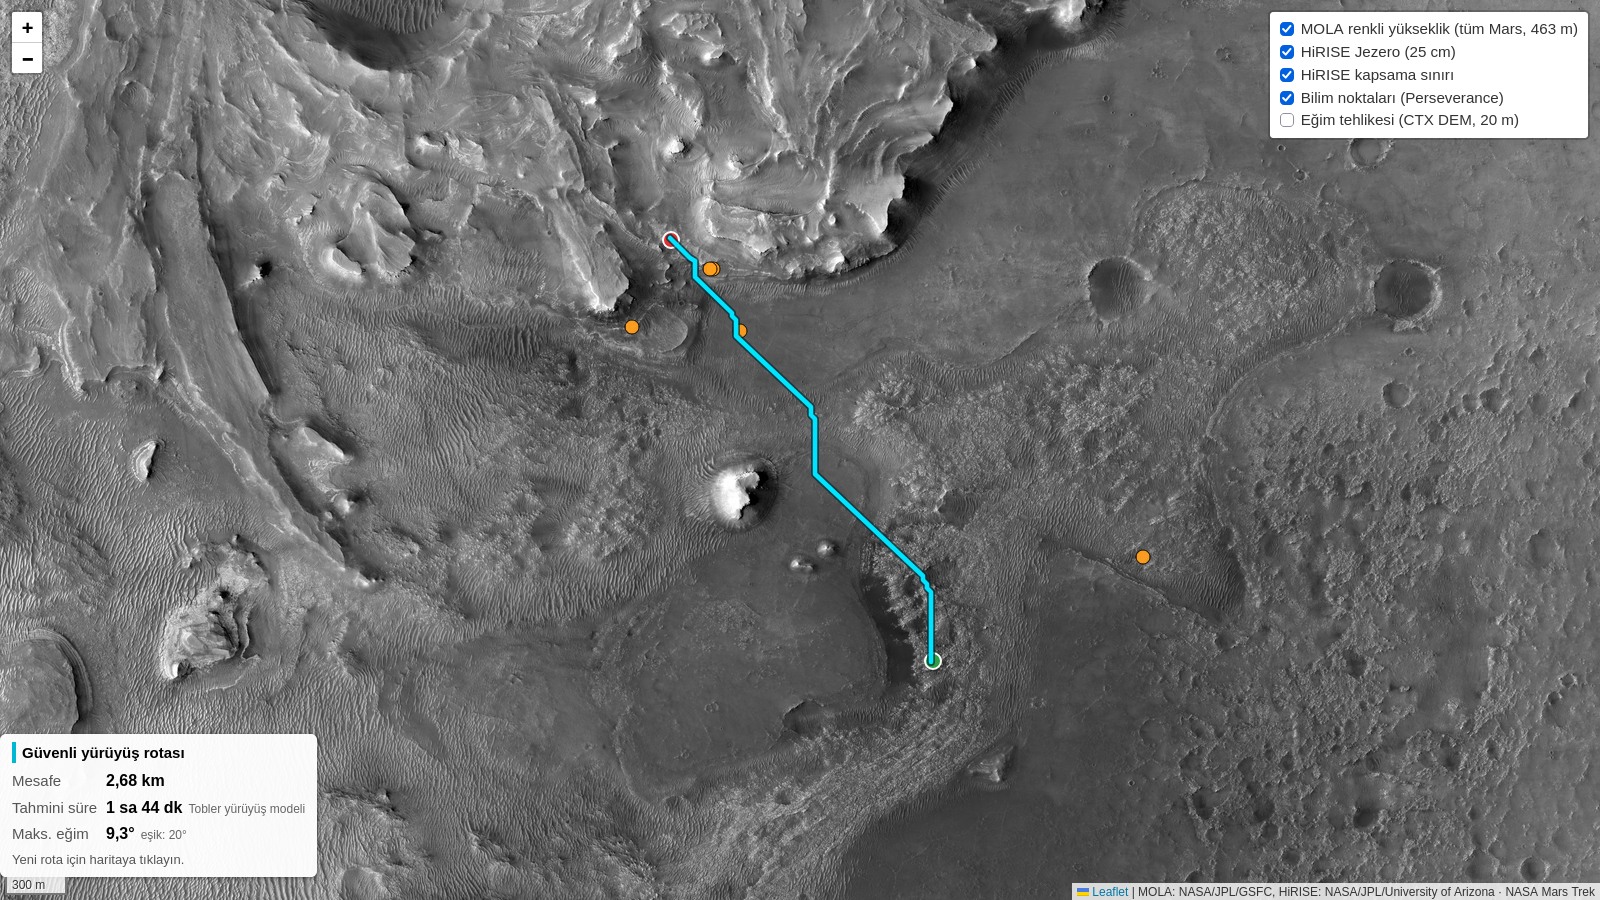
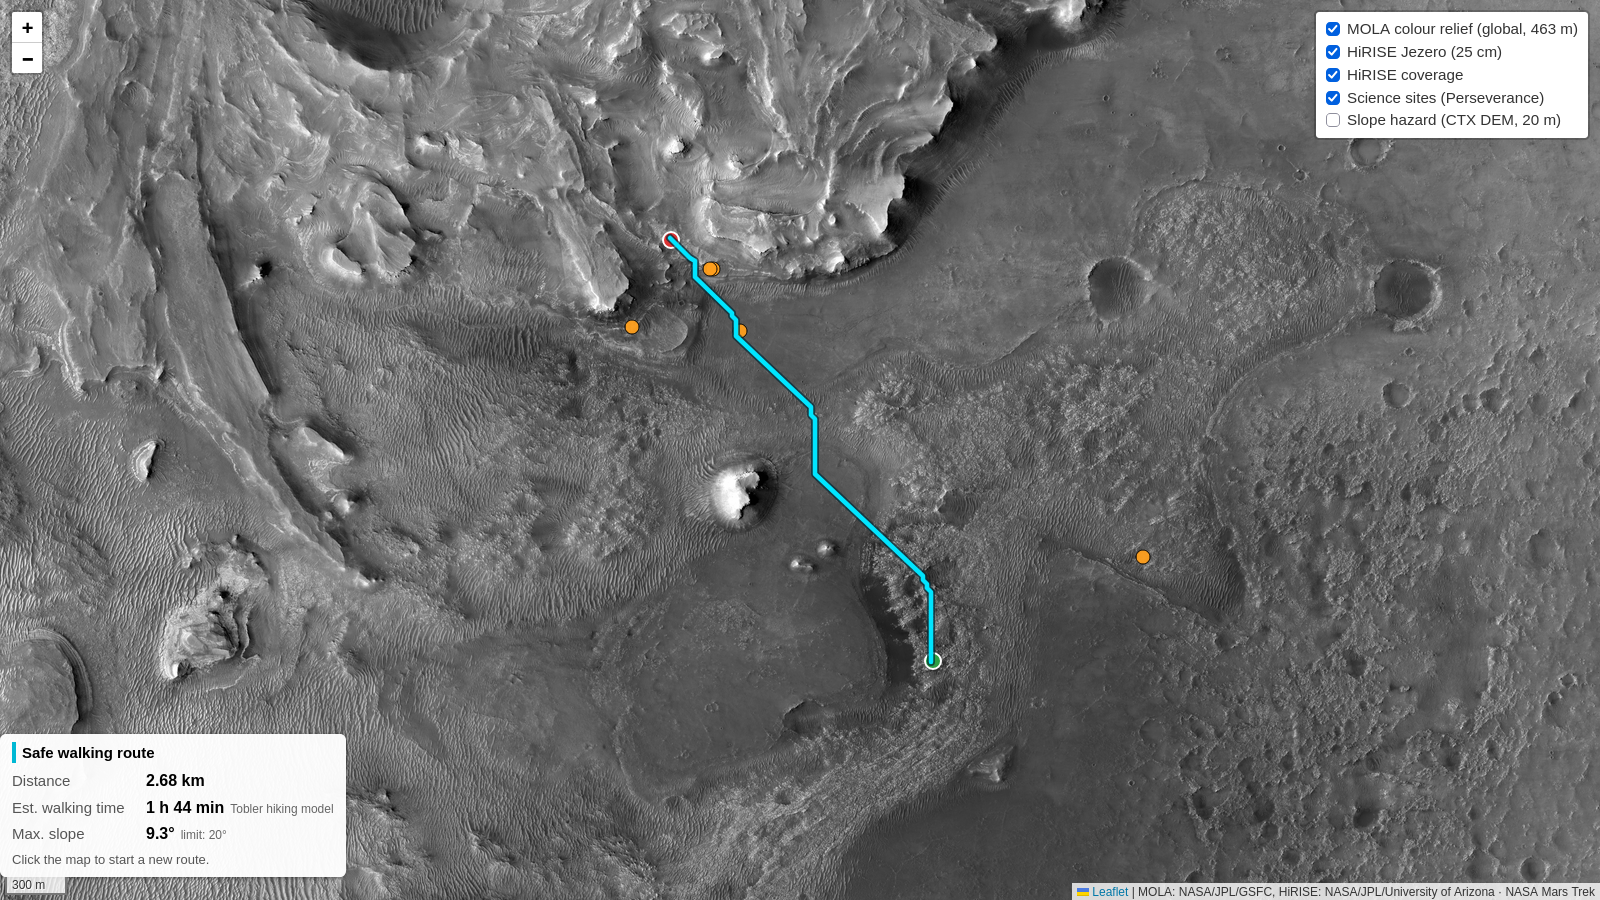
Frontend: translate all on-screen text to English, retake screenshots
UI text, layer names, legend, status and error messages, popup labels,
page title and lang attribute are now English. Numbers use en-US format
(2.68 km) and durations read '1 h 44 min'. No behaviour changes.
Screenshots in docs/screenshots/ retaken with the English UI; 04 has MOLA off.

Changed region(s): [[0.0, 0.8089, 0.2188, 0.9956], [0.7812, 0.0, 0.9688, 0.1556]]

diff --git a/frontend/app.js b/frontend/app.js
@@ -55,10 +55,10 @@ const bilimKatmani = L.layerGroup().addTo(map);
 // Katman aç/kapa kontrolü (sağ üst). Değişkende tutuyoruz ki sonradan
 // yüklenen katmanlar (eğim haritası) addOverlay ile eklenebilsin.
 const katmanKontrol = L.control.layers(null, {
-  "MOLA renkli yükseklik (tüm Mars, 463 m)": molaKatmani,
+  "MOLA colour relief (global, 463 m)": molaKatmani,
   "HiRISE Jezero (25 cm)": hiriseLayer,
-  "HiRISE kapsama sınırı": kapsamaKutusu,
-  "Bilim noktaları (Perseverance)": bilimKatmani,
+  "HiRISE coverage": kapsamaKutusu,
+  "Science sites (Perseverance)": bilimKatmani,
 }, { collapsed: DAR_EKRAN }).addTo(map); // telefonda katman paneli simgeye küçülür
 
 L.control.scale({ imperial: false }).addTo(map);
@@ -73,7 +73,7 @@ const EgimLejanti = L.Control.extend({
   onAdd: function () {
     const d = L.DomUtil.create("div", "durum-kutusu egim-lejant");
     const baslik = document.createElement("div");
-    baslik.className = "baslik"; baslik.textContent = "Eğim (rotanın kullandığı veri)";
+    baslik.className = "baslik"; baslik.textContent = "Slope (data used by the router)";
     d.append(baslik);
     SLOPE_OVERLAY.siniflar.forEach((s) => {
       const satir = document.createElement("div");
@@ -104,7 +104,7 @@ fetch(SLOPE_OVERLAY.metaUrl)
     egimKatmani.on("error", () => console.warn("Eğim resmi yüklenemedi:", SLOPE_OVERLAY.url));
     // Telefonda alt köşeler rota özetine yetmiyor; lejant sol üste (zoom düğmelerinin altına) gider.
     egimLejanti = new EgimLejanti({ position: DAR_EKRAN ? "topleft" : "bottomright", sinir });
-    katmanKontrol.addOverlay(egimKatmani, "Eğim tehlikesi (CTX DEM, 20 m)");
+    katmanKontrol.addOverlay(egimKatmani, "Slope hazard (CTX DEM, 20 m)");
     if (SLOPE_OVERLAY.showOnStart) map.addLayer(egimKatmani); // overlayadd → lejant da açılır
   })
   .catch((hata) => console.warn("Eğim katmanı bulunamadı (" + SLOPE_OVERLAY.metaUrl + "):", hata.message));
@@ -156,18 +156,18 @@ map.on("click", (e) => {
     // 1. tıklama (veya 3. tıklama → önce sıfırla): başlangıç noktası
     sifirla();
     baslangic = e.latlng;
-    baslangicIsaret = isaretKoy(e.latlng, "#2e9e44", "Başlangıç");
-    durumGoster("Başlangıç seçildi. Şimdi bitiş noktasına tıklayın.");
+    baslangicIsaret = isaretKoy(e.latlng, "#2e9e44", "Start");
+    durumGoster("Click to set the end point.");
   } else {
     // 2. tıklama: bitiş noktası → rotayı iste
-    bitisIsaret = isaretKoy(e.latlng, "#d33", "Bitiş");
+    bitisIsaret = isaretKoy(e.latlng, "#d33", "End");
     rotaIste(baslangic, e.latlng);
   }
 });
 
 // ---------- 5) Backend'den rota isteme ----------
 async function rotaIste(start, end) {
-  durumGoster("Rota hesaplanıyor…", "yukleniyor");
+  durumGoster("Computing route…", "yukleniyor");
 
   const kontrol = new AbortController();
   aktifIstek = kontrol;
@@ -190,7 +190,7 @@ async function rotaIste(start, end) {
 
     if (!yanit.ok) {
       // Backend hata formatı: {"error": "<Türkçe mesaj>"} + 400/422
-      const mesaj = veri && veri.error ? veri.error : `Sunucu hatası (HTTP ${yanit.status}).`;
+      const mesaj = veri && veri.error ? veri.error : `Server error (HTTP ${yanit.status}).`;
       throw new Error(mesaj);
     }
     // Çizmeden önce geometriyi doğrula; bozuksa hata fırlatır (catch'e düşer).
@@ -199,9 +199,9 @@ async function rotaIste(start, end) {
   } catch (hata) {
     if (hata.name === "AbortError" && !zamanAsimi) return; // kullanıcı sıfırladı, sessiz geç
     let mesaj = hata.message;
-    if (zamanAsimi) mesaj = "Sunucu zamanında cevap vermedi. Tekrar deneyin.";
-    else if (hata instanceof TypeError) mesaj = "Rota sunucusuna ulaşılamadı. Backend çalışıyor mu?";
-    durumGoster("Hata: " + mesaj + " (Yeniden denemek için haritaya tıklayın.)", "hata");
+    if (zamanAsimi) mesaj = "The server did not respond in time.";
+    else if (hata instanceof TypeError) mesaj = "Could not reach the server.";
+    durumGoster("Error: " + mesaj + " (Click the map to try again.)", "hata");
   } finally {
     clearTimeout(zamanlayici);
     if (aktifIstek === kontrol) aktifIstek = null;
@@ -216,7 +216,7 @@ const sonluSayi = (v) => typeof v === "number" && Number.isFinite(v);
 // LineString. Geometri LineString olmalı ve en az 2 geçerli [boylam, enlem]
 // içermeli. Değilse hata fırlatır; rota haritaya ÇİZİLMEZ.
 function rotaGeometrisiAl(veri) {
-  const hatali = new Error("Sunucudan geçersiz bir rota geldi.");
+  const hatali = new Error("The server sent an invalid route.");
   if (!veri || typeof veri !== "object") throw hatali;
   const g = veri.type === "Feature" ? veri.geometry : veri;
   if (!g || g.type !== "LineString" || !Array.isArray(g.coordinates)) throw hatali;
@@ -241,7 +241,7 @@ function rotaCiz(geometri, ozellikler) {
   ]).addTo(map);
 
   const m = rotaMetrikleri(ozellikler);
-  rotaKatmani.bindPopup(`Mesafe: ${m.mesafe} · Süre: ${m.sure} · Maks. eğim: ${m.egim}`);
+  rotaKatmani.bindPopup(`Distance: ${m.mesafe} · Est. walking time: ${m.sure} · Max. slope: ${m.egim}`);
   rotaKutusuGoster(m);
   // maxZoom: çok kısa rotada (ör. başlangıç ve bitiş aynı DEM hücresinde,
   // backend 2 aynı noktalı çizgi döner) harita en yakın zoom'a zıplamasın.
@@ -257,15 +257,15 @@ function rotaMetrikleri(p) {
     if (v === undefined || v === null) return "—";
     if (!sonluSayi(v) || v < 0) {
       console.warn(`Geçersiz rota metriği ${ad}:`, v);
-      return "geçersiz";
+      return "invalid";
     }
     return bicim(v);
   };
-  const tr = (v, basamak) => v.toLocaleString("tr-TR", { maximumFractionDigits: basamak });
+  const tr = (v, basamak) => v.toLocaleString("en-US", { maximumFractionDigits: basamak });
   // Saati "1 sa 43 dk" biçimine çevirir (1,72 saat'ten daha kolay okunur).
   const saatDakika = (saat) => {
     const dk = Math.round(saat * 60);
-    return dk < 60 ? `${dk} dk` : `${Math.floor(dk / 60)} sa ${dk % 60} dk`;
+    return dk < 60 ? `${dk} min` : `${Math.floor(dk / 60)} h ${dk % 60} min`;
   };
   return {
     mesafe: metin("distance_km", (v) => tr(v, 2) + " km"),
@@ -289,14 +289,14 @@ function rotaKutusuGoster(m) {
     return s;
   };
   const baslik = document.createElement("div");
-  baslik.className = "baslik"; baslik.textContent = "Güvenli yürüyüş rotası";
+  baslik.className = "baslik"; baslik.textContent = "Safe walking route";
   const ipucu = document.createElement("div");
-  ipucu.className = "ipucu"; ipucu.textContent = "Yeni rota için haritaya tıklayın.";
+  ipucu.className = "ipucu"; ipucu.textContent = "Click the map to start a new route.";
   d.replaceChildren(
     baslik,
-    satir("Mesafe", m.mesafe),
-    satir("Tahmini süre", m.sure, "Tobler yürüyüş modeli"),
-    satir("Maks. eğim", m.egim, `eşik: ${SLOPE_THRESHOLD_DEG}°`),
+    satir("Distance", m.mesafe),
+    satir("Est. walking time", m.sure, "Tobler hiking model"),
+    satir("Max. slope", m.egim, `limit: ${SLOPE_THRESHOLD_DEG}°`),
     ipucu,
   );
 }
@@ -313,7 +313,7 @@ function el(etiket, metin, ozellikler = {}) {
 
 function bilimPopup(p) {
   const kutu = el("div", "", { className: "bilim-popup" });
-  kutu.append(el("h3", p.name || "İsimsiz nokta"));
+  kutu.append(el("h3", p.name || "Unnamed site"));
   if (p.image_preview_url) {
     // loading="lazy": resim sadece popup açılınca indirilir. Resmin yeri CSS'te
     // sabit oranla ayrılır, böylece popup açıldığı anda son boyutundadır ve
@@ -323,9 +323,9 @@ function bilimPopup(p) {
     if (alt) kutu.append(el("div", alt, { className: "kucuk" }));
   }
   if (p.science_summary) kutu.append(el("p", p.science_summary));
-  if (p.coordinate_accuracy) kutu.append(el("div", "Konum doğruluğu: " + p.coordinate_accuracy, { className: "kucuk" }));
+  if (p.coordinate_accuracy) kutu.append(el("div", "Location accuracy: " + p.coordinate_accuracy, { className: "kucuk" }));
   if (p.image_gallery_url) {
-    kutu.append(el("a", "Ham görüntüyü NASA'da aç ↗", { href: p.image_gallery_url, target: "_blank", rel: "noopener" }));
+    kutu.append(el("a", "Open raw image at NASA ↗", { href: p.image_gallery_url, target: "_blank", rel: "noopener" }));
   }
   return kutu;
 }
@@ -354,4 +354,4 @@ async function bilimNoktalariniYukle() {
 }
 bilimNoktalariniYukle();
 
-durumGoster("Başlangıç noktası için haritaya tıklayın.");
+durumGoster("Click the map to set a start point.");

diff --git a/frontend/index.html b/frontend/index.html
@@ -1,9 +1,9 @@
 <!DOCTYPE html>
-<html lang="tr">
+<html lang="en">
 <head>
   <meta charset="utf-8">
   <meta name="viewport" content="width=device-width, initial-scale=1">
-  <title>Mars Haritası — Jezero Güvenli Rota</title>
+  <title>Martian Map — Jezero Safe Marswalk</title>
 
   <!-- Leaflet 1.9.4, CDN'den sabit sürüm. "integrity" hash'i dosyanın
        değiştirilmediğini tarayıcıya doğrulatır (hash'ler curl ile kontrol edildi). -->
@@ -45,10 +45,10 @@
                          vertical-align: -2px; border: 1px solid rgba(0,0,0,.3); }
 
     /* Rota özeti: başlık + etiket/değer satırları */
-    .rota-ozeti { min-width: 230px; }
+    .rota-ozeti { min-width: 230px; max-width: 380px; } /* İngilizce etiketler uzun: not satırı kırılmasın */
     .rota-ozeti .baslik { font-weight: 600; margin-bottom: 4px; border-left: 4px solid #00b8d4; padding-left: 6px; }
     .rota-ozeti .metrik { display: flex; align-items: baseline; gap: 6px; padding: 2px 0; }
-    .rota-ozeti .etiket { color: #555; min-width: 88px; }
+    .rota-ozeti .etiket { color: #555; min-width: 128px; }
     .rota-ozeti .metrik b { font-size: 16px; white-space: nowrap; }
     /* Notlar #888 yerine #666: beyaz zeminde projektörde de okunur kontrast */
     .rota-ozeti .not { color: #666; font-size: 12px; }

diff --git a/frontend/config.js b/frontend/config.js
@@ -81,8 +81,8 @@ const SLOPE_OVERLAY = {
   // Lejant renkleri make_slope_overlay.py'deki renklerle aynı.
   // Sınır derecesi ({sinir}) slope_overlay.json'daki slope_limit_deg'den gelir.
   siniflar: [
-    { renk: "#facc15", metin: "10–15°  orta eğim" },
-    { renk: "#f97316", metin: "15–{sinir}°  dik" },
-    { renk: "#dc2626", metin: "> {sinir}°  geçilmez (rota asla girmez)" },
+    { renk: "#facc15", metin: "10–15° moderate" },
+    { renk: "#f97316", metin: "15–{sinir}° steep" },
+    { renk: "#dc2626", metin: "> {sinir}° blocked (route never enters)" },
   ],
 };
